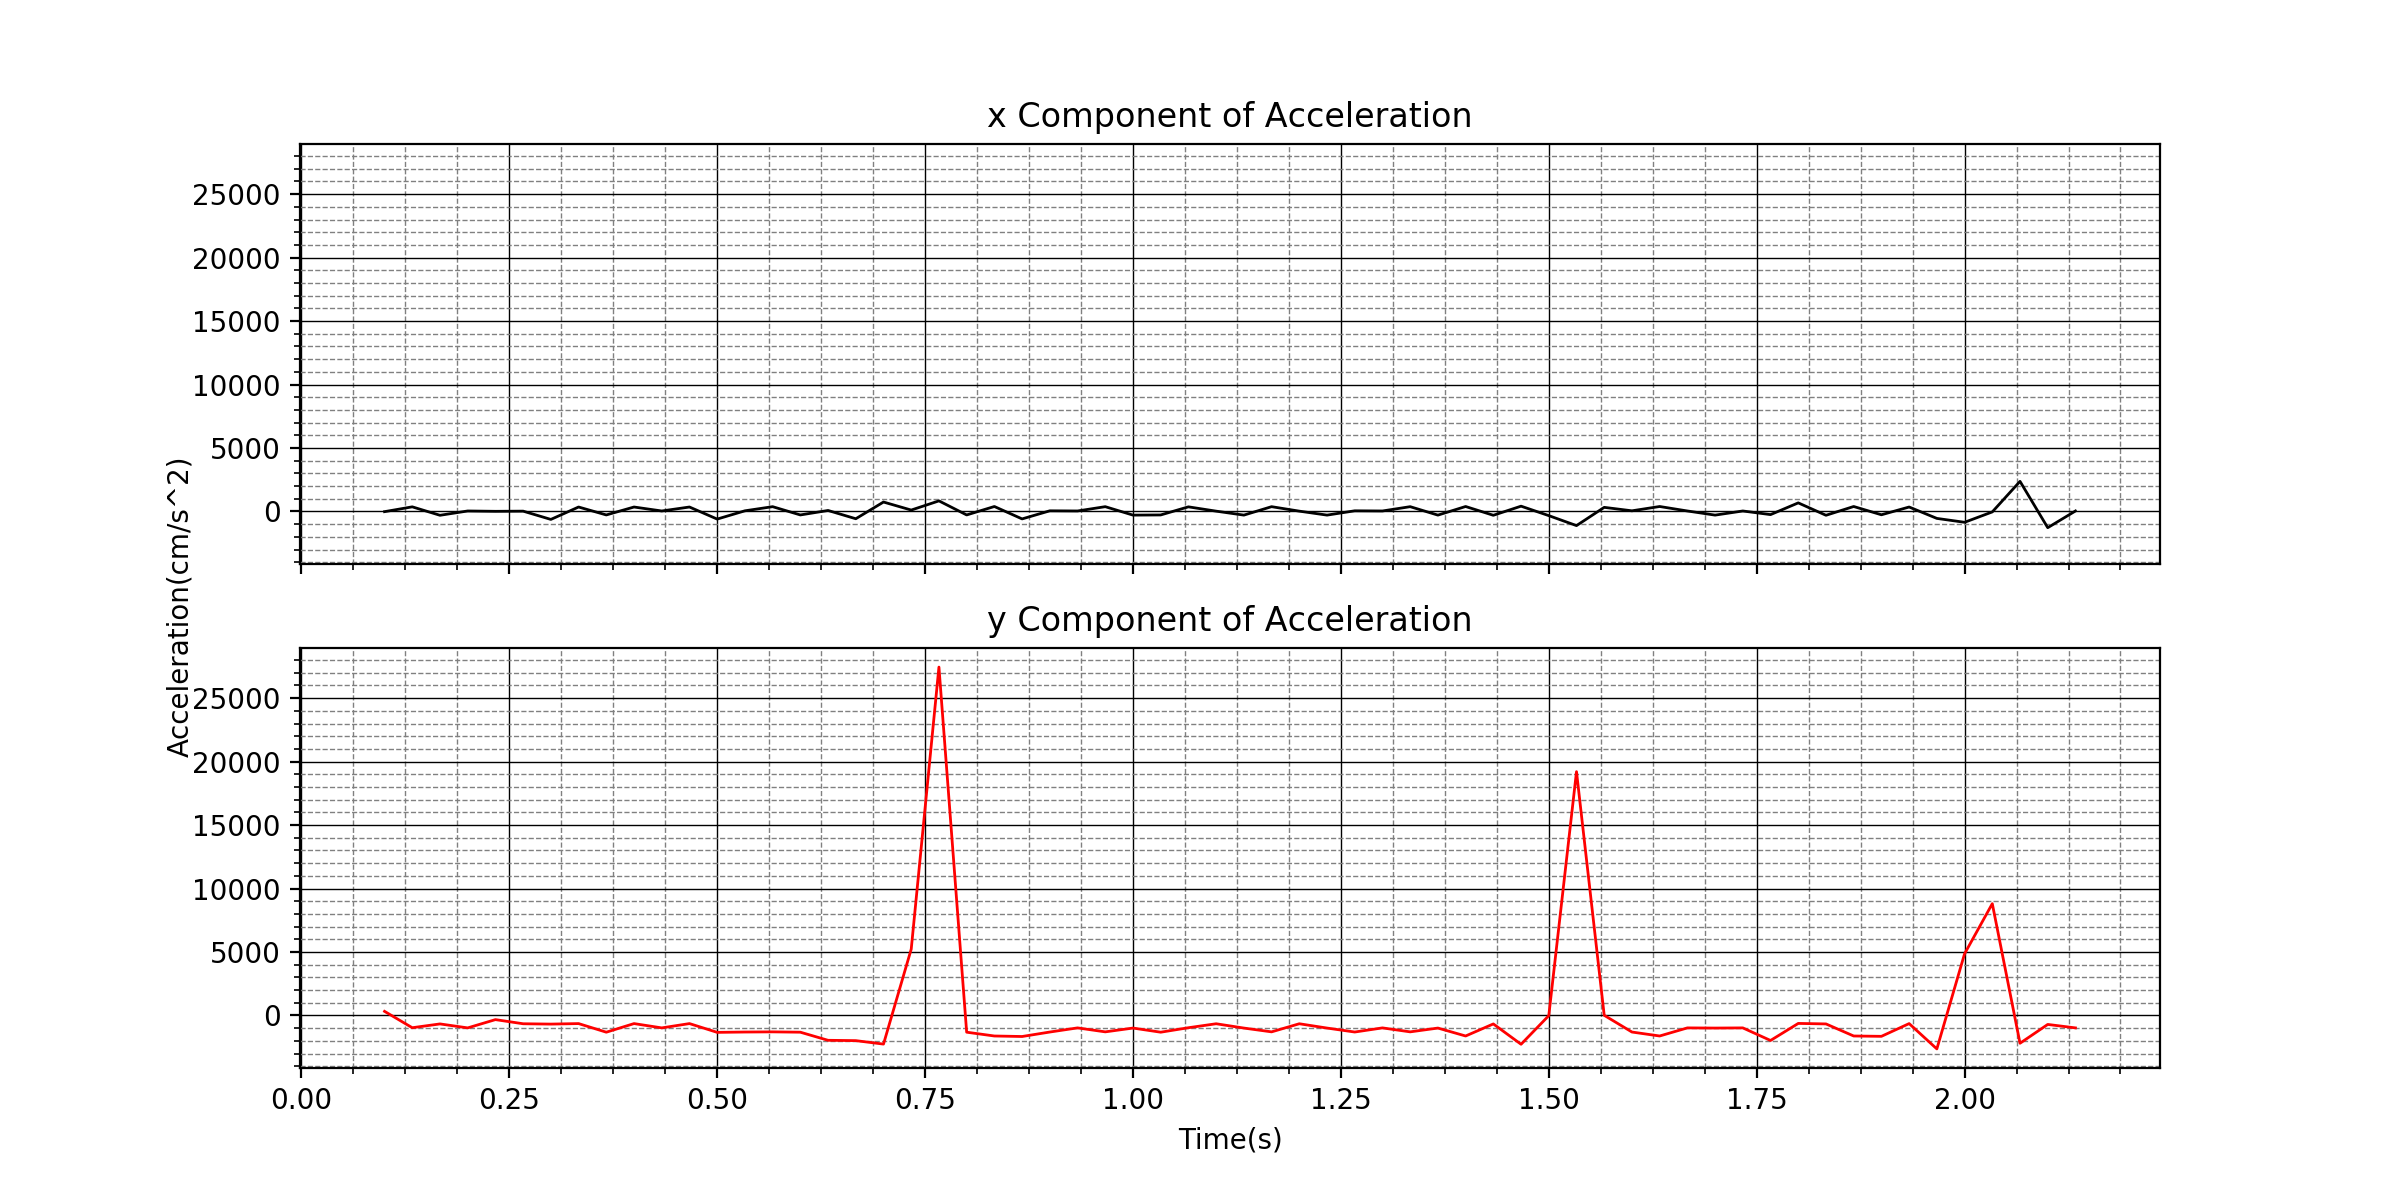
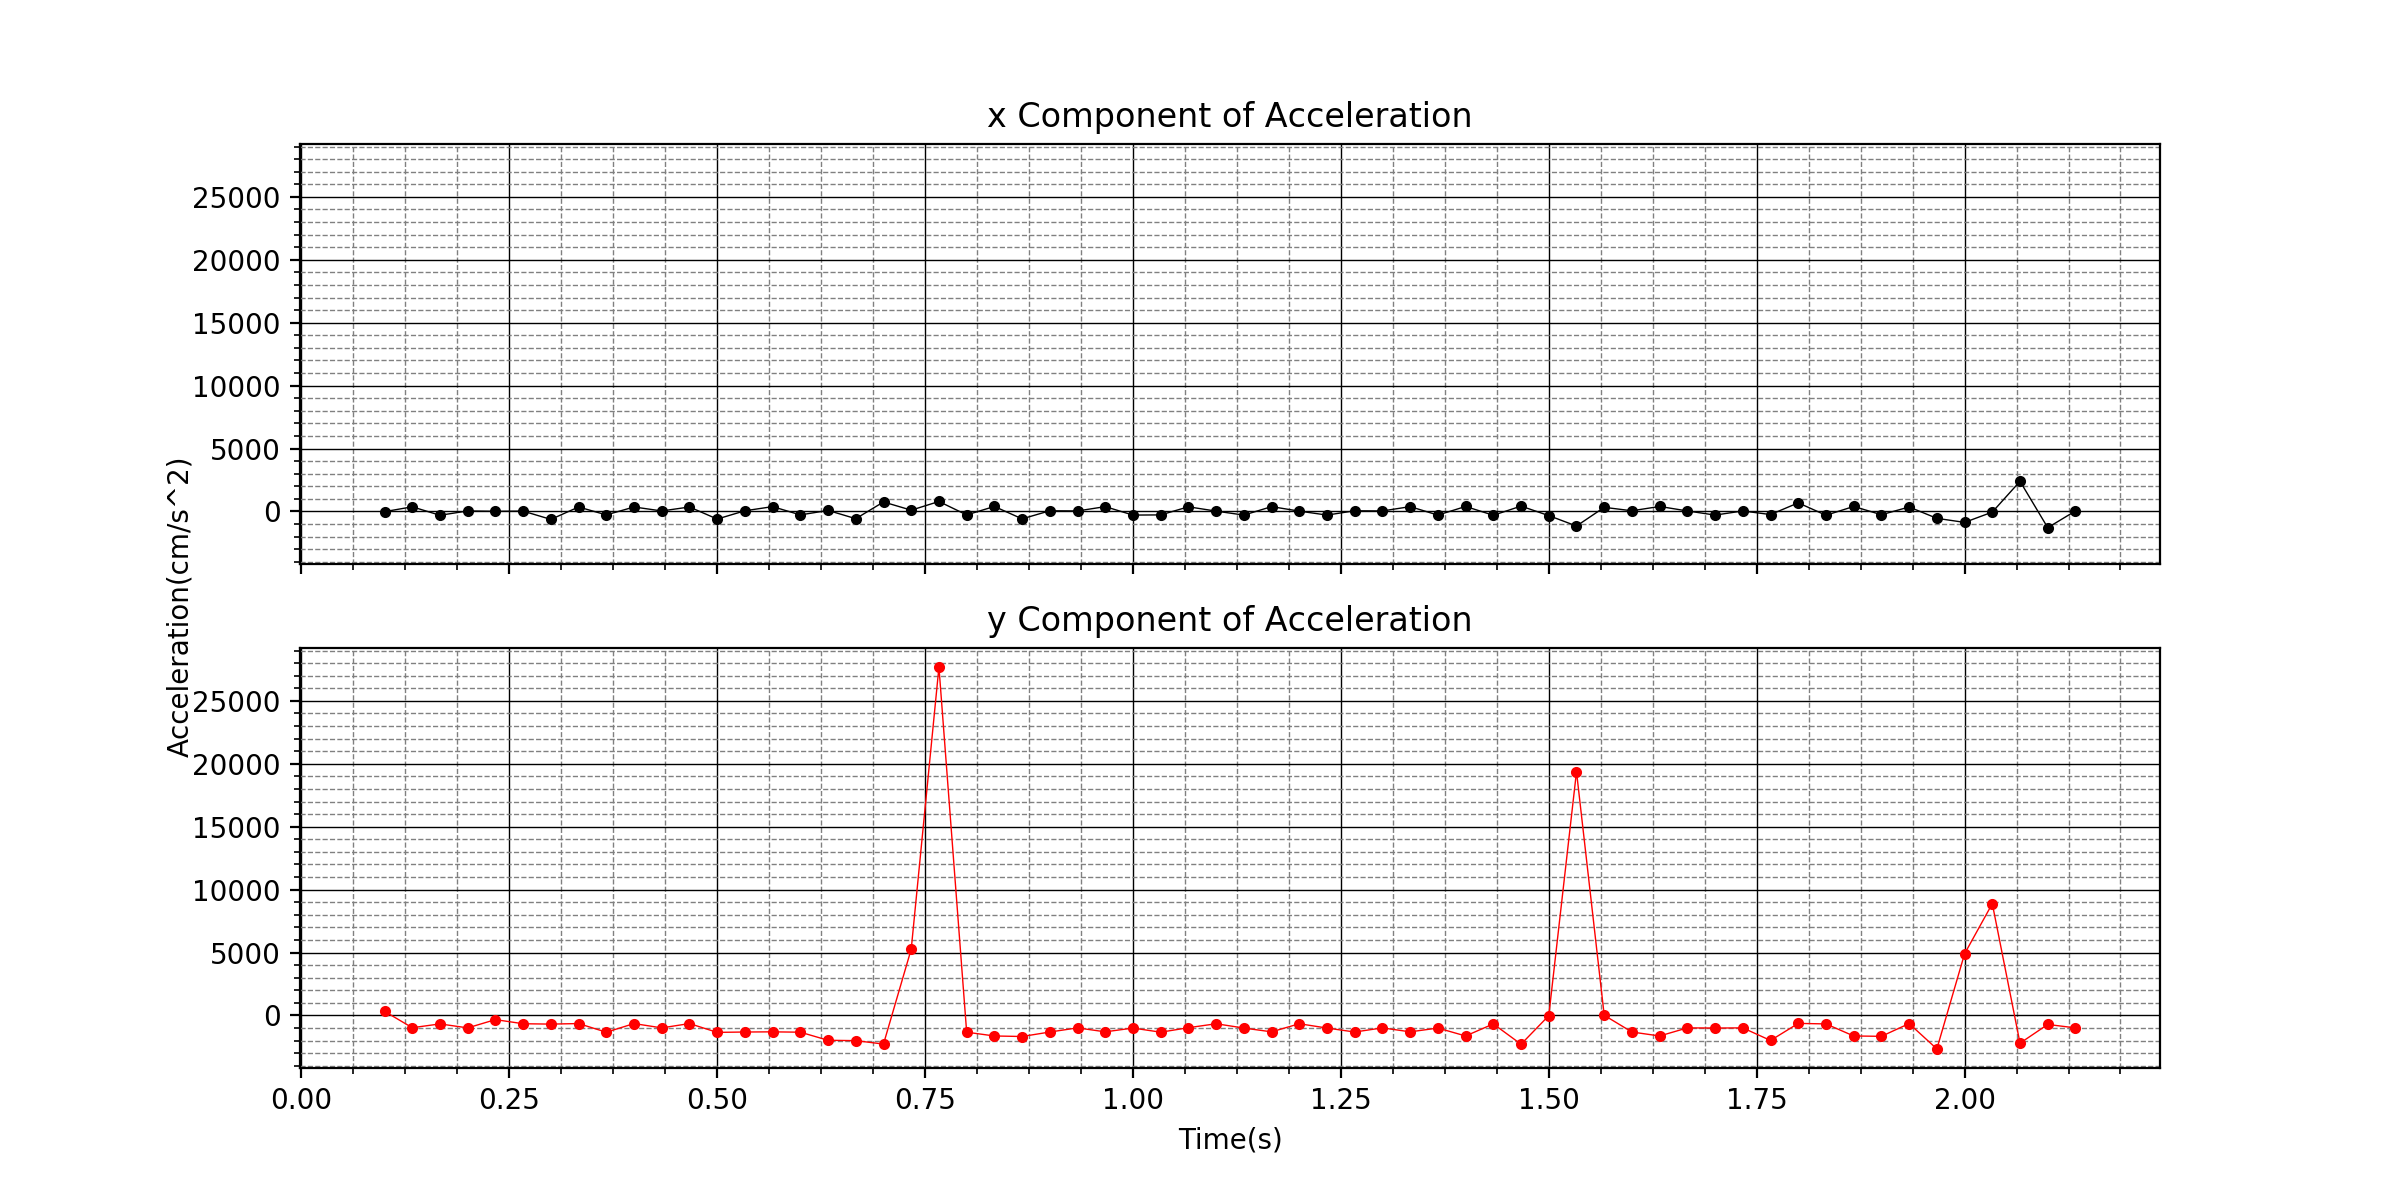
Changed plotting functions

diff --git a/tracker.py b/tracker.py
@@ -223,16 +223,20 @@ class Tracker(object):
                 self.yAccel.append(dvy/dt)
                 self.accelTimes.append(tAvg)
         
-    def plotPos(self, comp=False):
+    def plotPos(self, comp=False, cont=False):
         """Plot x-y position, irrespective of time. If comp is True,
         the x and y positions are plotted on separate subplots with
-        respect to time."""
+        respect to time. If cont is true, a continuous curve will
+        be superimposed on the discrete points"""
         x = [p[0] for p in self.positions]
         y = [p[1] for p in self.positions]
         if comp:
             f, axarr = plt.subplots(2, sharex=True, sharey=True, figsize=(12, 6))
-            axarr[0].plot(self.posTimes, x, "k-", linewidth=1)
-            axarr[1].plot(self.posTimes, y, "r-", linewidth=1)
+            if cont:
+                axarr[0].plot(self.posTimes, x, "k-", linewidth=0.5)
+                axarr[1].plot(self.posTimes, y, "r-", linewidth=0.5)
+            axarr[0].plot(self.posTimes, x, "k.", linewidth=1)
+            axarr[1].plot(self.posTimes, y, "r.", linewidth=1)
             axarr[0].set_title("x Position")
             axarr[1].set_title("y Position")
             axarr[0].minorticks_on()
@@ -247,21 +251,26 @@ class Tracker(object):
             plt.ylabel("Position({})".format(self.scale[1]), labelpad=15)
         else:
             plt.figure()
-            plt.plot(x, y, "b-", linewidth=1)
+            if cont:
+                plt.plot(x, y, "b-", linewidth=0.5)
+            plt.plot(x, y, "b.", linewidth=1)
             plt.minorticks_on()
             plt.grid(which="major", linestyle='-', linewidth='0.5', color='black')
             plt.grid(which='minor', linestyle='--', linewidth='0.5', color='grey')
             plt.xlabel("x Position({})".format(self.scale[1]))
             plt.ylabel("y Position({})".format(self.scale[1]))
-        plt.show()
     
-    def plotVel(self, comp=False):
+    def plotVel(self, comp=False, cont=False):
         """Plot speed with respect to time. If comp is true, the component
-        velocities are plotted on separate subplots."""
+        velocities are plotted on separate subplots. If cont is true, a
+        continuous curve will be superimposed on the discrete points"""
         if comp:
             f, axarr = plt.subplots(2, sharex=True, sharey=True, figsize=(12, 6))
-            axarr[0].plot(self.velTimes, self.xVel, "k-", linewidth=1)
-            axarr[1].plot(self.velTimes, self.yVel, "r-", linewidth=1)
+            if cont:
+                axarr[0].plot(self.velTimes, self.xVel, "k-", linewidth=0.5)
+                axarr[1].plot(self.velTimes, self.yVel, "r-", linewidth=0.5)
+            axarr[0].plot(self.velTimes, self.xVel, "k.", linewidth=1)
+            axarr[1].plot(self.velTimes, self.yVel, "r.", linewidth=1)
             axarr[0].set_title("x Component of Velocity")
             axarr[1].set_title("y Component of Velocity")
             axarr[0].minorticks_on()
@@ -276,21 +285,27 @@ class Tracker(object):
             plt.ylabel("Velocity({}/s)".format(self.scale[1]), labelpad=15)
         else:
             plt.figure(figsize=(15, 5))
-            plt.plot(self.velTimes, self.speeds, "k-", linewidth=1)
+            if cont:
+                plt.plot(self.velTimes, self.speeds, "k-", linewidth=0.5)
+            plt.plot(self.velTimes, self.speeds, "k.", linewidth=1)
             plt.minorticks_on()
             plt.grid(which="major", linestyle='-', linewidth='0.5', color='black')
             plt.grid(which='minor', linestyle='--', linewidth='0.5', color='grey')
             plt.xlabel("Time(s)")
             plt.ylabel("Speed({}/s)".format(self.scale[1]))
-        plt.show()
     
-    def plotAcc(self, comp=False):
+    def plotAcc(self, comp=False, cont=False):
         """Plot scalar acceleration with respect to time. If comp is true,
-        the component accelerations are plotted on separate subplots."""
+        the component accelerations are plotted on separate subplots. If
+        cont is true, a continuous curve will be superimposed on the
+        discrete points"""
         if comp:
             f, axarr = plt.subplots(2, sharex=True, sharey=True, figsize=(12, 6))
-            axarr[0].plot(self.accelTimes, self.xAccel, "k-", linewidth=1)
-            axarr[1].plot(self.accelTimes, self.yAccel, "r-", linewidth=1)
+            if cont:
+                axarr[0].plot(self.accelTimes, self.xAccel, "k-", linewidth=0.5)
+                axarr[1].plot(self.accelTimes, self.yAccel, "r-", linewidth=0.5)
+            axarr[0].plot(self.accelTimes, self.xAccel, "k.", linewidth=1)
+            axarr[1].plot(self.accelTimes, self.yAccel, "r.", linewidth=1)
             axarr[0].set_title("x Component of Acceleration")
             axarr[1].set_title("y Component of Acceleration")
             axarr[0].minorticks_on()
@@ -305,12 +320,16 @@ class Tracker(object):
             plt.ylabel("Acceleration({}/s^2)".format(self.scale[1]), labelpad=15)
         else:
             plt.figure(figsize=(15, 5))
-            plt.plot(self.accelTimes, self.accel, "g-", linewidth=1)
+            if cont:
+                plt.plot(self.accelTimes, self.accel, "g.", linewidth=0.5)
+            plt.plot(self.accelTimes, self.accel, "g.", linewidth=1)
             plt.minorticks_on()
             plt.grid(which="major", linestyle='-', linewidth='0.5', color='black')
             plt.grid(which='minor', linestyle='--', linewidth='0.5', color='grey')
             plt.xlabel("Time(s)")
             plt.ylabel("Acceleration({}/s^2)".format(self.scale[1]))
+    
+    def showPlots(self):
         plt.show()
     
     def toTxt(self, filename, outputType):

diff --git a/README.md b/README.md
@@ -49,15 +49,18 @@ t.computeMotion()
 
 # Plot positions
 t.plotPos()
-t.plotPos(comp=True)
+t.plotPos(comp=True, cont=True)
 
 # Plot speed and velocity components
 t.plotVel()
-t.plotVel(comp=True)
+t.plotVel(comp=True, cont=True)
 
 # Plot acceleration and its components
 t.plotAcc()
-t.plotAcc(comp=True)
+t.plotAcc(comp=True, cont=True)
+
+# Show all plots
+t.showPlots()
 ```
 
 The plotting functions above display position, velocity, and acceleration values in terms of real-world quantities. Some samples taken from the ball drop example are shown below.
